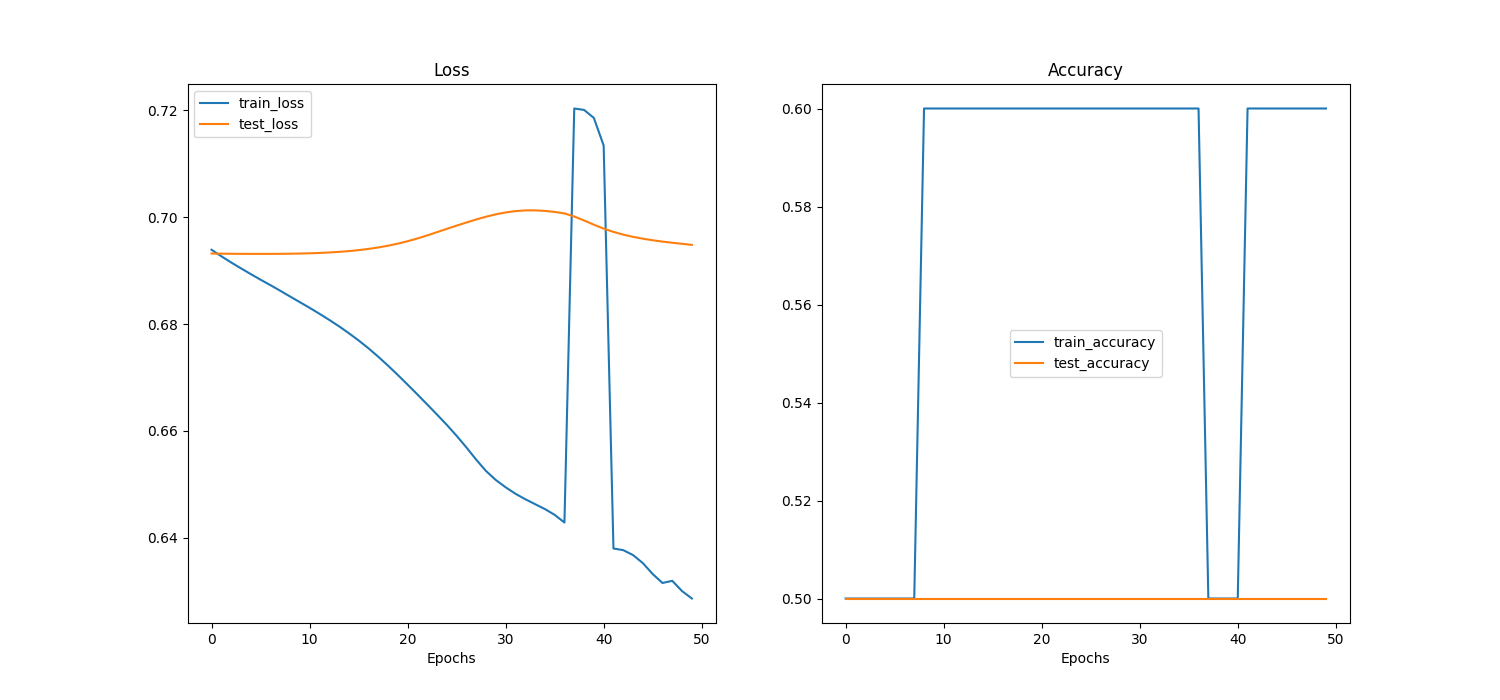
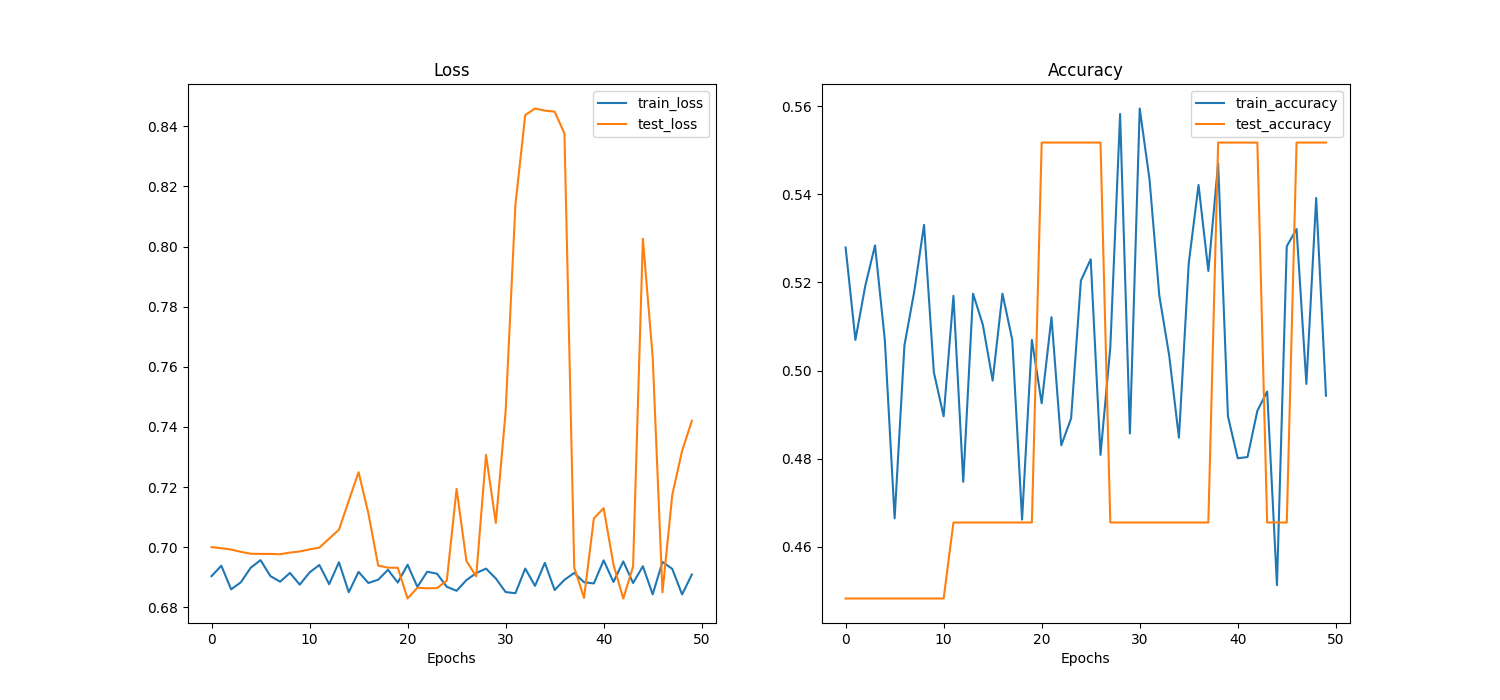
new

diff --git a/expressions_pt.py b/expressions_pt.py
@@ -8,14 +8,18 @@ import pandas as pd
 from torchinfo import summary 
 from timeit import default_timer as timer 
 import matplotlib.pyplot as plt 
-from sklearn.preprocessing import LabelEncoder
+from sklearn.preprocessing import LabelEncoder, OneHotEncoder
 from utils import *
 import warnings 
+import random
+import numpy as np 
 warnings.filterwarnings("ignore")
 device = "cuda" if torch.cuda.is_available() else "cpu"
 print("Using", device)
 
-                               
+cats = ["angry", "disgust", "fear", "happy", "neutral", "sad", "surprise"]
+le = OneHotEncoder(sparse_output=False)
+le.fit(np.array(cats).reshape(-1, 1))                     
 class ExpressionDataset(Dataset):
     
     def __init__(self, paths, transform=None):
@@ -29,9 +33,8 @@ class ExpressionDataset(Dataset):
 
     def load_expressions(self, file_path):
         df = pd.read_csv(file_path)
-        le = LabelEncoder()
-        df = le.fit_transform(df)
-        df = torch.tensor(df).unsqueeze(1)
+        df = le.transform(df)
+
         return torch.tensor(df)
     
     def get_ground_truth(self, file_path):
@@ -59,18 +62,16 @@ class LandmarkLSTM(nn.Module):
         self.dense = nn.Sequential(
             nn.Linear(hidden_shape, 128),
             nn.ReLU(),
-            nn.BatchNorm1d(128),
             nn.Linear(128, 64),
             nn.ReLU(),
-            nn.BatchNorm1d(64),
-            nn.Linear(64, output_shape),
-            nn.Softmax(dim=1)
-        )
+            nn.Linear(64, 32),
+            nn.ReLU(),
+            nn.Linear(32, output_shape) 
+                          )
 
     def forward(self, x: torch.Tensor):
         out, _ = self.lstm(x)
         out = self.dense(out[:, -1])
-        print(out.shape)
         return out
     
 def collate_pad(batch):
@@ -80,6 +81,7 @@ def collate_pad(batch):
     return X, torch.tensor(y)
 
 paths = glob.glob("BagOfLies/Finalised/User_*/")
+random.shuffle(paths)
 train_paths, test_paths = torch.utils.data.random_split(paths, [int(0.8*len(paths)), len(paths) - int(0.8*len(paths))])
 
 train_dataset = ExpressionDataset(train_paths)
@@ -87,16 +89,20 @@ test_dataset = ExpressionDataset(test_paths)
 
 print(f"Training set size: {len(train_dataset)}")
 print(f"Validation set size: {len(test_dataset)}")
-train_dataloader = DataLoader(train_dataset, batch_size=32, shuffle=True, collate_fn=collate_pad)
-test_dataloader = DataLoader(test_dataset, batch_size=16, shuffle=True, collate_fn=collate_pad)
+train_dataloader = DataLoader(train_dataset, batch_size=64, shuffle=True, collate_fn=collate_pad)
+test_dataloader = DataLoader(test_dataset, batch_size=64, shuffle=True, collate_fn=collate_pad)
 
 X_batch, y_batch = next(iter(train_dataloader))
 X_single, y_single = X_batch[0], y_batch[0]
 X_single = X_single.unsqueeze(0)
+
+print("Sample Instance:")
+print(X_single)
 print(f"X_batch shape: {X_batch.shape}")
 print(f"y_batch shape: {y_batch.shape}")
 
-model = LandmarkLSTM(1, 64, 2).to(device)
+model = LandmarkLSTM(7, 256, 2).to(device)
+# model = nn.DataParallel(model)
 
 model.eval()
 
@@ -105,7 +111,7 @@ with torch.inference_mode():
     print(f"Testing model with input shape {X_single.shape}...")
     print(output)
 
-    summary(model, input_size=(X_single.shape), device=device)
+summary(model, input_size=(X_single.shape), device=device)
 
 
 NUM_EPOCHS = 50
